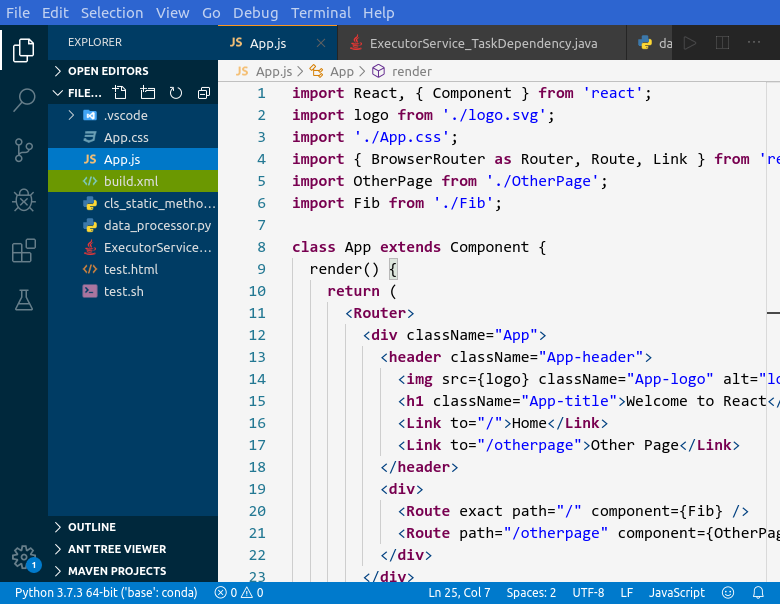
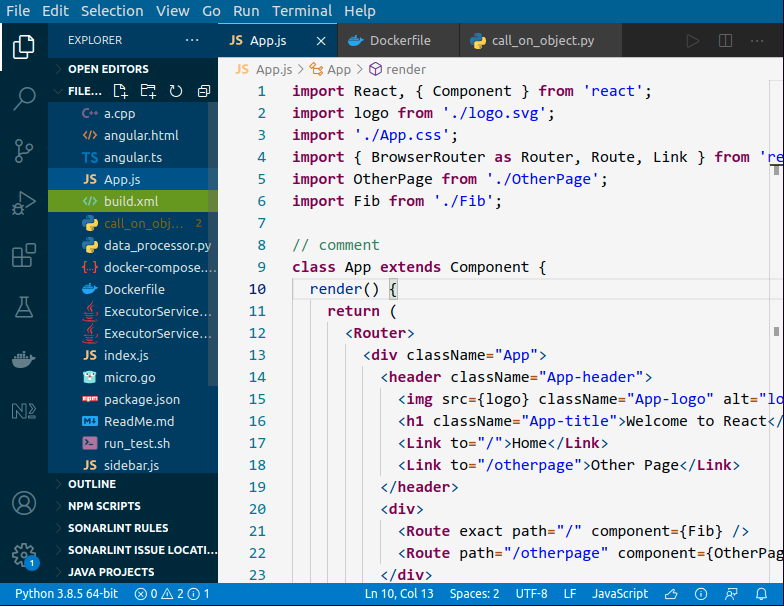
v0.0.2: Add support for typescript angular

diff --git a/README.md b/README.md
@@ -5,9 +5,13 @@ A light color theme inspired by Slack and Eclipse themes.
 
 - Overview
   - [Javascript](#javascript)
-- Code close-up 
+- Code close-up
   - [Python](#python)
   - [Java](#java)
+  - [Angular](#angular)
+  - [TypeScript](#typescript)
+  - [YAML](#yaml)
+  - [CSS](#css)
 
 ### Overview
 #### Javascript
@@ -19,3 +23,15 @@ A light color theme inspired by Slack and Eclipse themes.
 
 #### Java
 ![CodeScreenshot](https://raw.githubusercontent.com/cafeduke/vscode-dukelight-theme/master/images/dukelight_java_closeup.png)
+
+#### Angular
+![CodeScreenshot](https://raw.githubusercontent.com/cafeduke/vscode-dukelight-theme/master/images/dukelight_ang_closeup.png)
+
+#### TypeScript
+![CodeScreenshot](https://raw.githubusercontent.com/cafeduke/vscode-dukelight-theme/master/images/dukelight_ts_closeup.png)
+
+#### Yaml
+![CodeScreenshot](https://raw.githubusercontent.com/cafeduke/vscode-dukelight-theme/master/images/dukelight_yml_closeup.png)
+
+#### CSS
+![CodeScreenshot](https://raw.githubusercontent.com/cafeduke/vscode-dukelight-theme/master/images/dukelight_css_closeup.png)

diff --git a/CHANGELOG.md b/CHANGELOG.md
@@ -1,5 +1,9 @@
 # Change Log
 Changes to the "dukelight" color theme.
 
+## 0.0.2
+- Color the instance function and operator
+- Support for typescript and angular
+
 ## 0.0.1
 - Initial release
